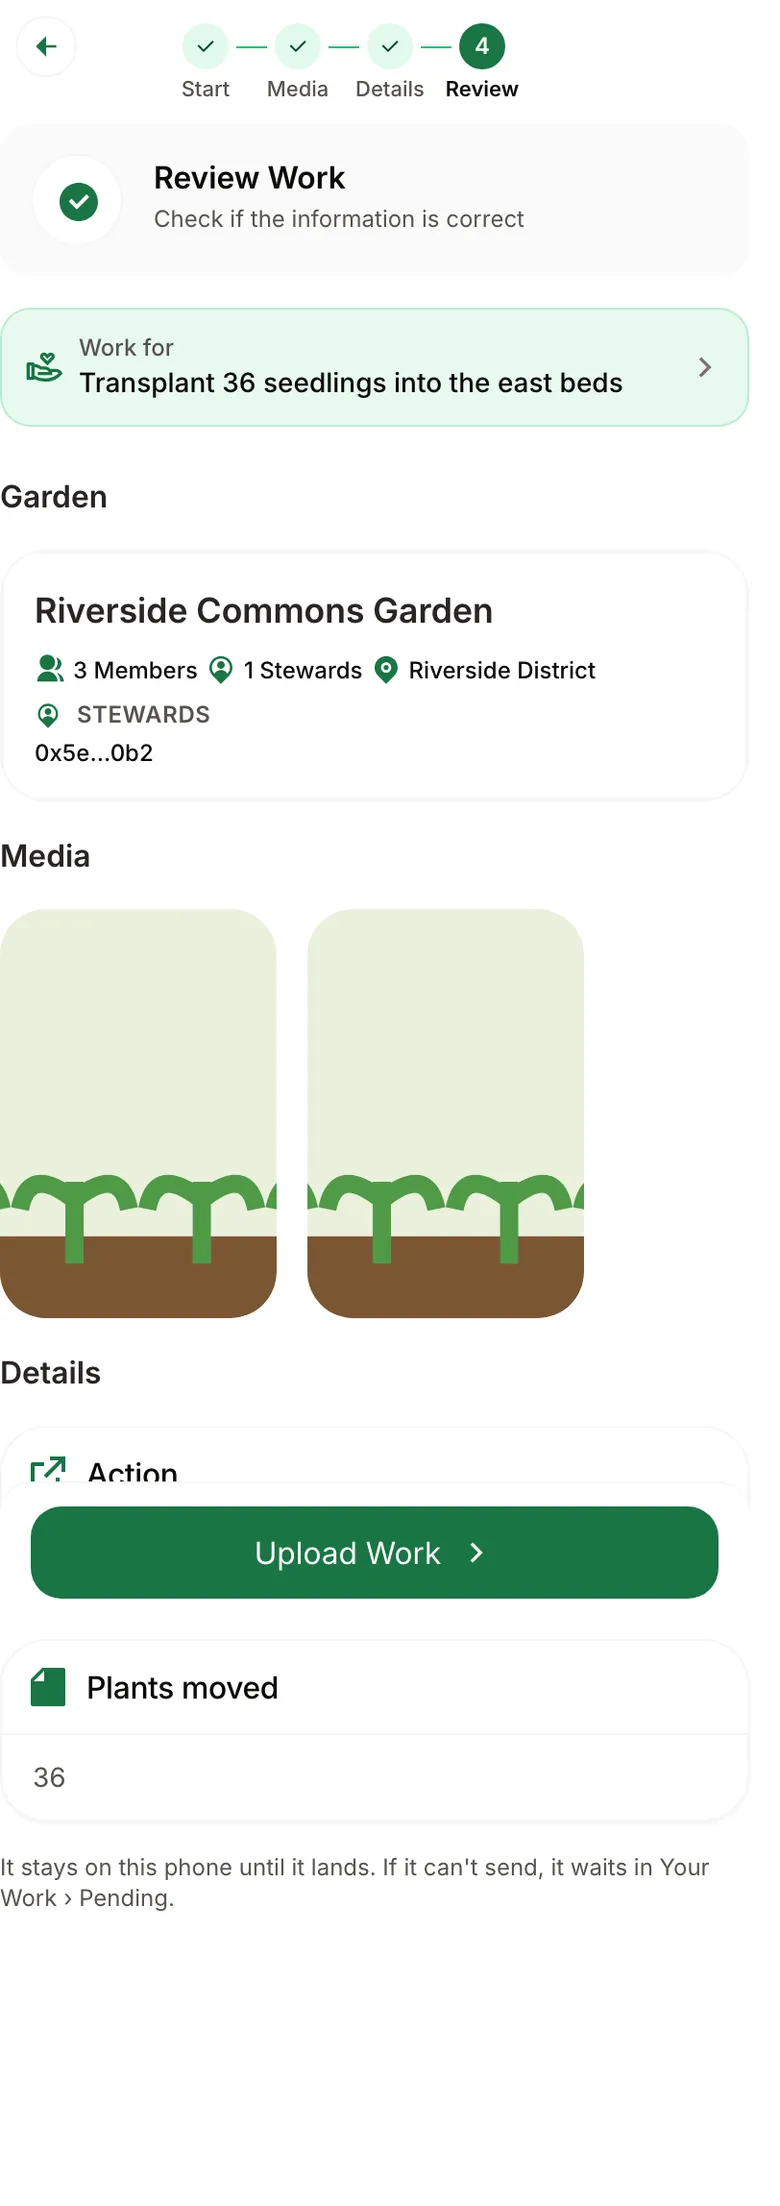
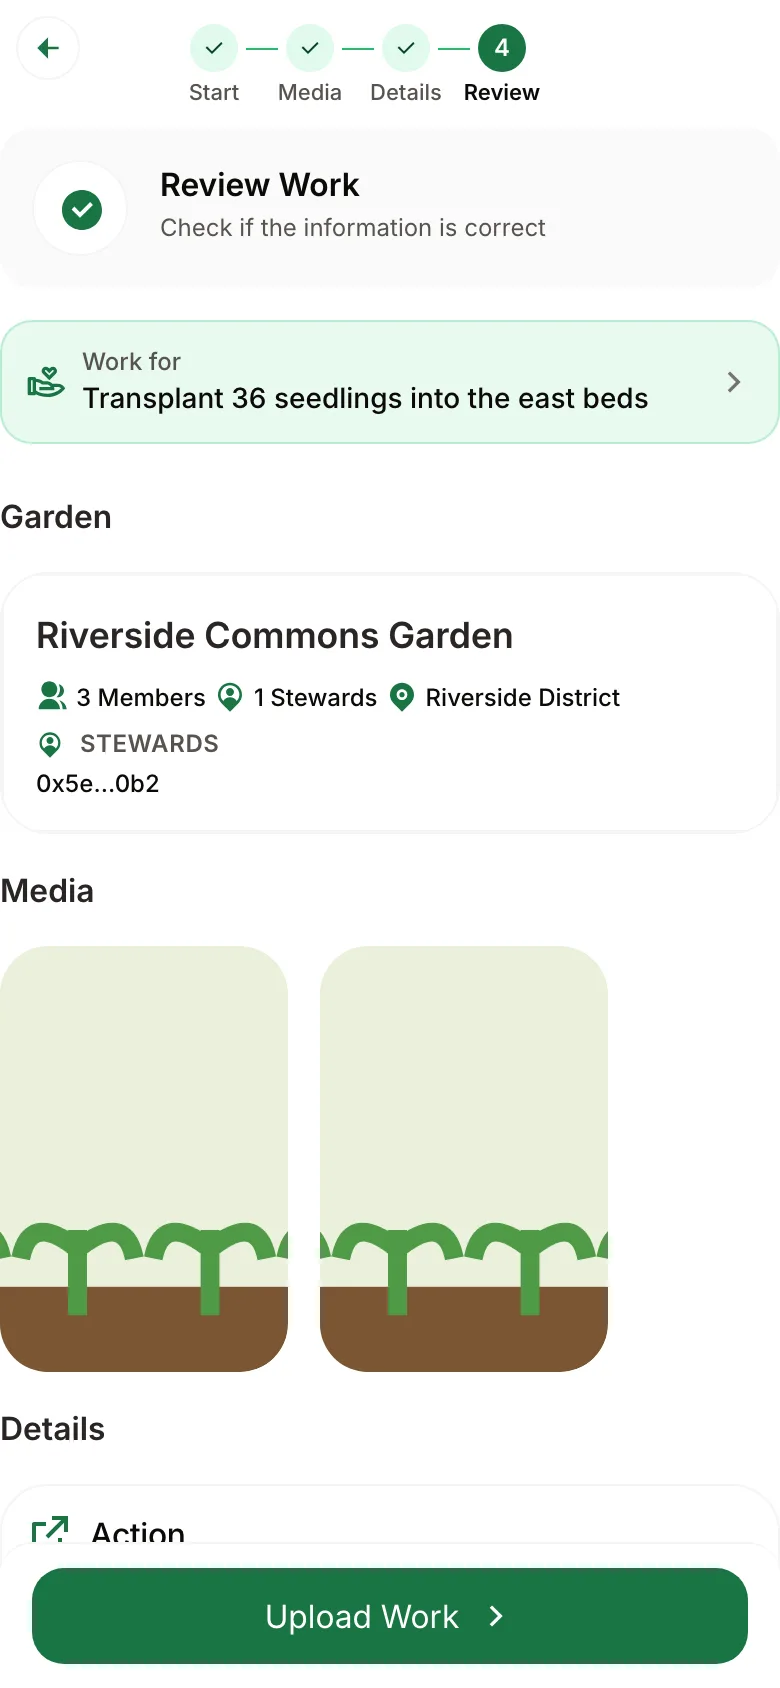
docs(builders): one capture size for product screens, and drop two outdated captures
From Afo's final pass: the screenshots came in seven sizes from three capture
methods, and some no longer matched the product.

Product screens now follow one standard, the viewport only at 2x: desktop
1440x900 saved 2000x1250, phone 390x844 saved 780x1688, light theme. The two
Submit Work frames were full-page captures of different lengths and are
retaken at the phone size; the screenshot row now lets the width decide a
frame's size. The sign-in figure is a component, not a screen, so it is
cropped to its content.

Two older captures are removed. The action-selection frame showed the
previous step indicator, and no fixture story renders the current Start
step, so Anatomy shows the two current frames. The second copy of the public
home page gives way to the standard-size one the Design page already uses.

Signed-in screens keep coming from the deployed Storybook's real views with
fixture data: mock auth on localhost reads live gardens, whose member names
and work photos do not belong in a public repository. Not replaced, for lack
of a faithful source: the steward guide's two review captures (the Hub work
stories render an empty queue), the gardener guide's Start and Details
captures, and the three QA app captures.

Refs PRD-862

diff --git a/docs/src/css/custom.css b/docs/src/css/custom.css
@@ -303,6 +303,8 @@ a svg[class*="iconExternalLink"] {
   flex: 1 1 180px;
   min-width: 0;
   max-width: 240px;
+  /* The width and height attributes reserve the frame's shape; the row decides its size. */
+  height: auto;
   border: 1px solid var(--ifm-color-emphasis-300);
   border-radius: 12px;
 }
